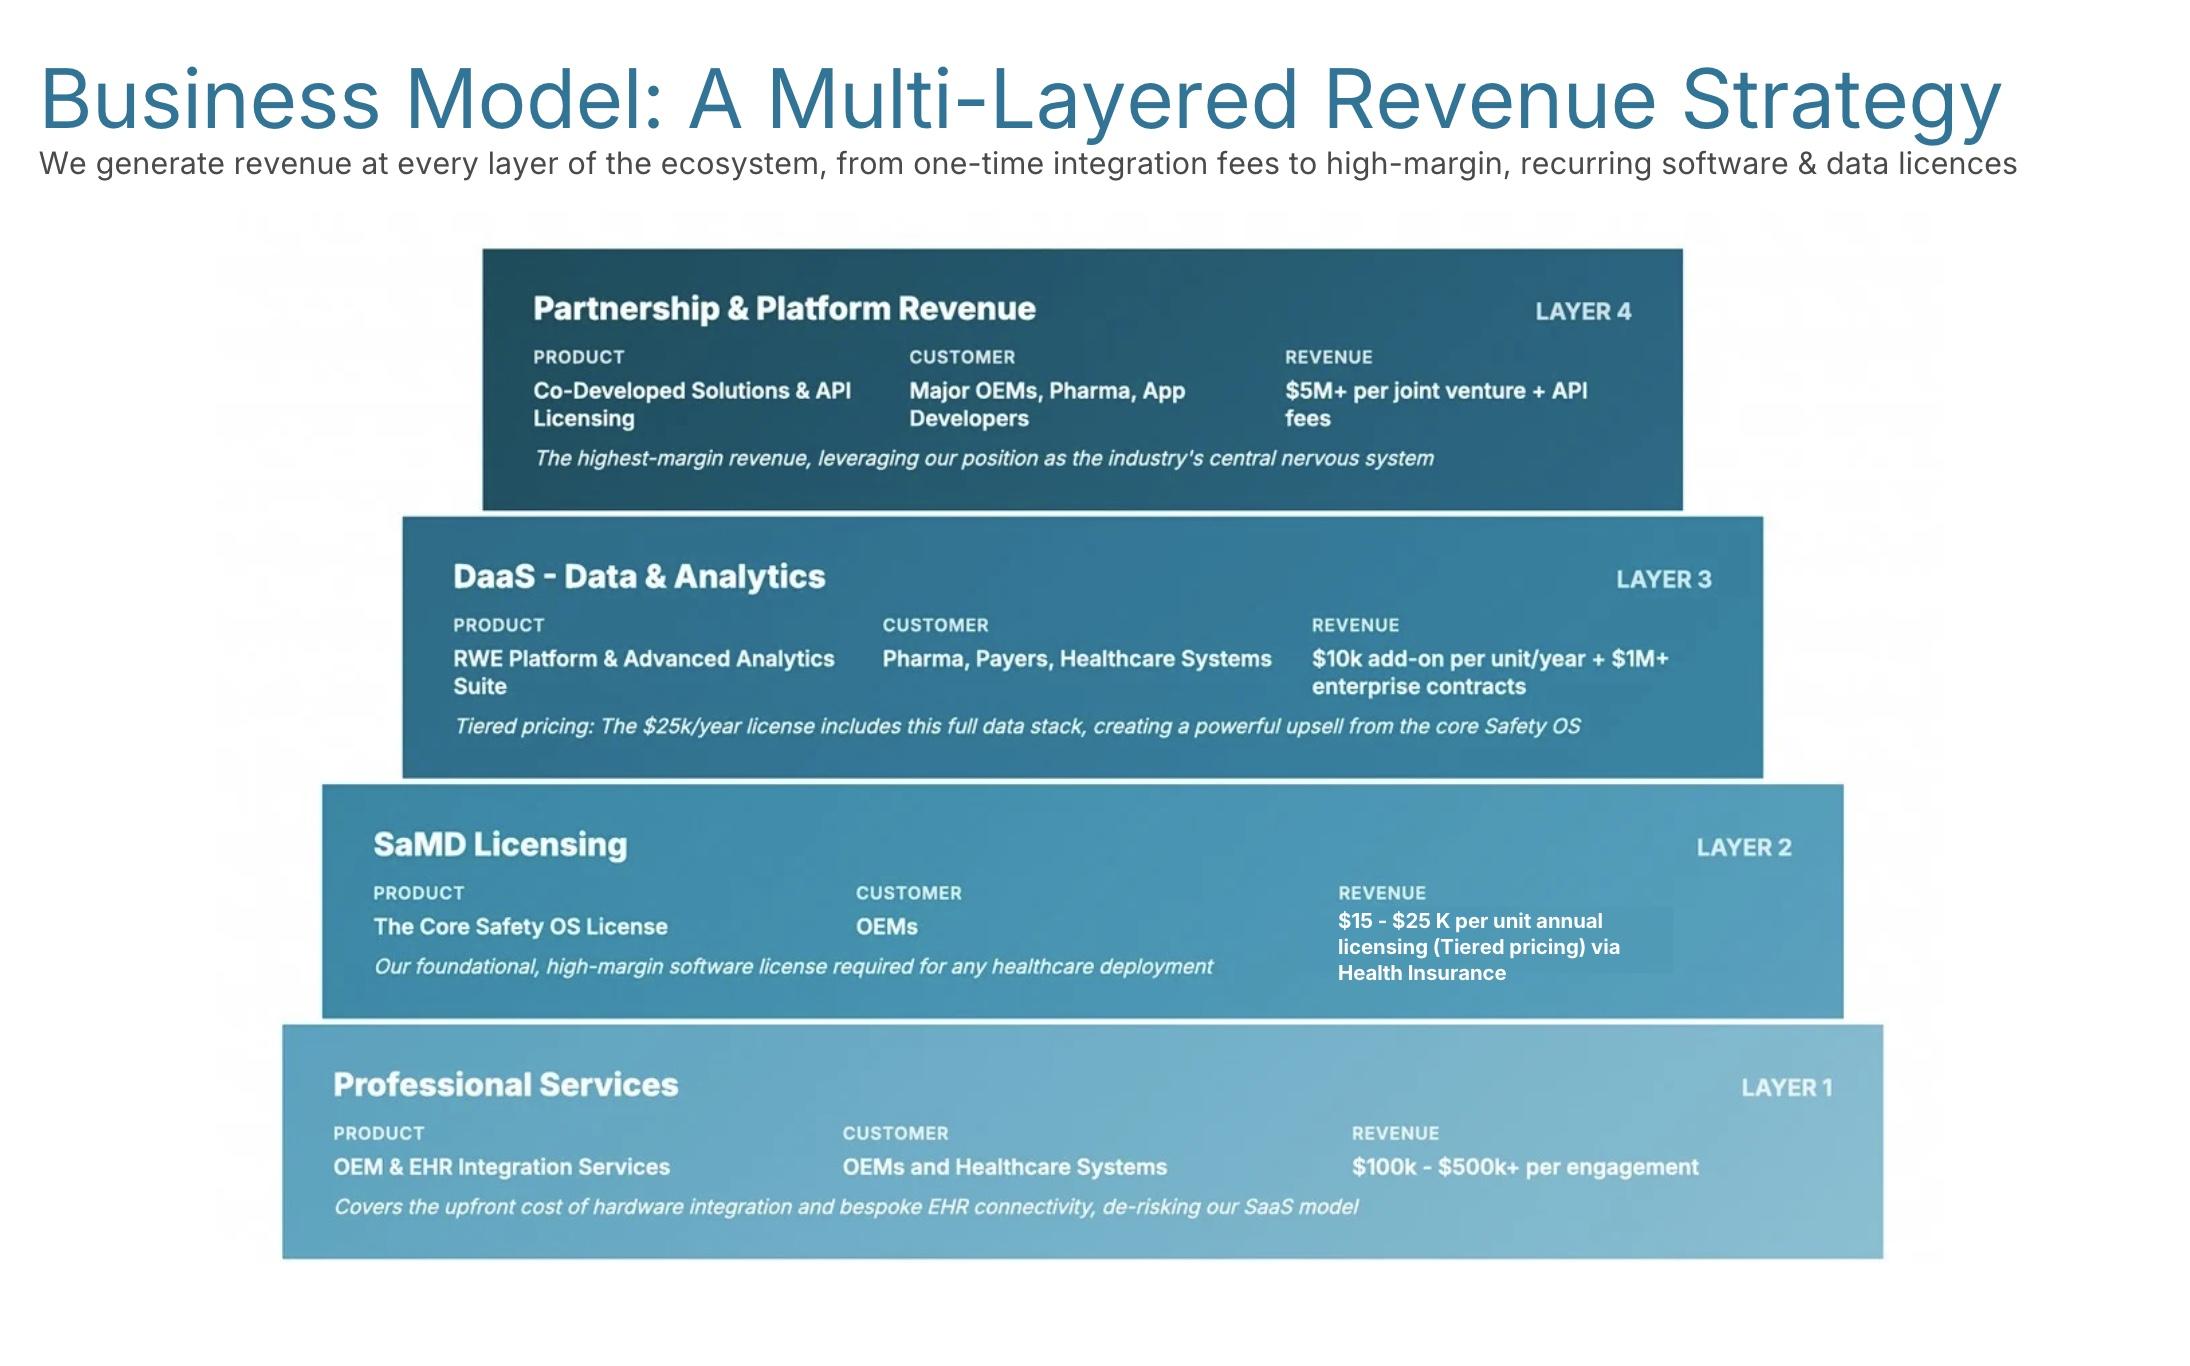
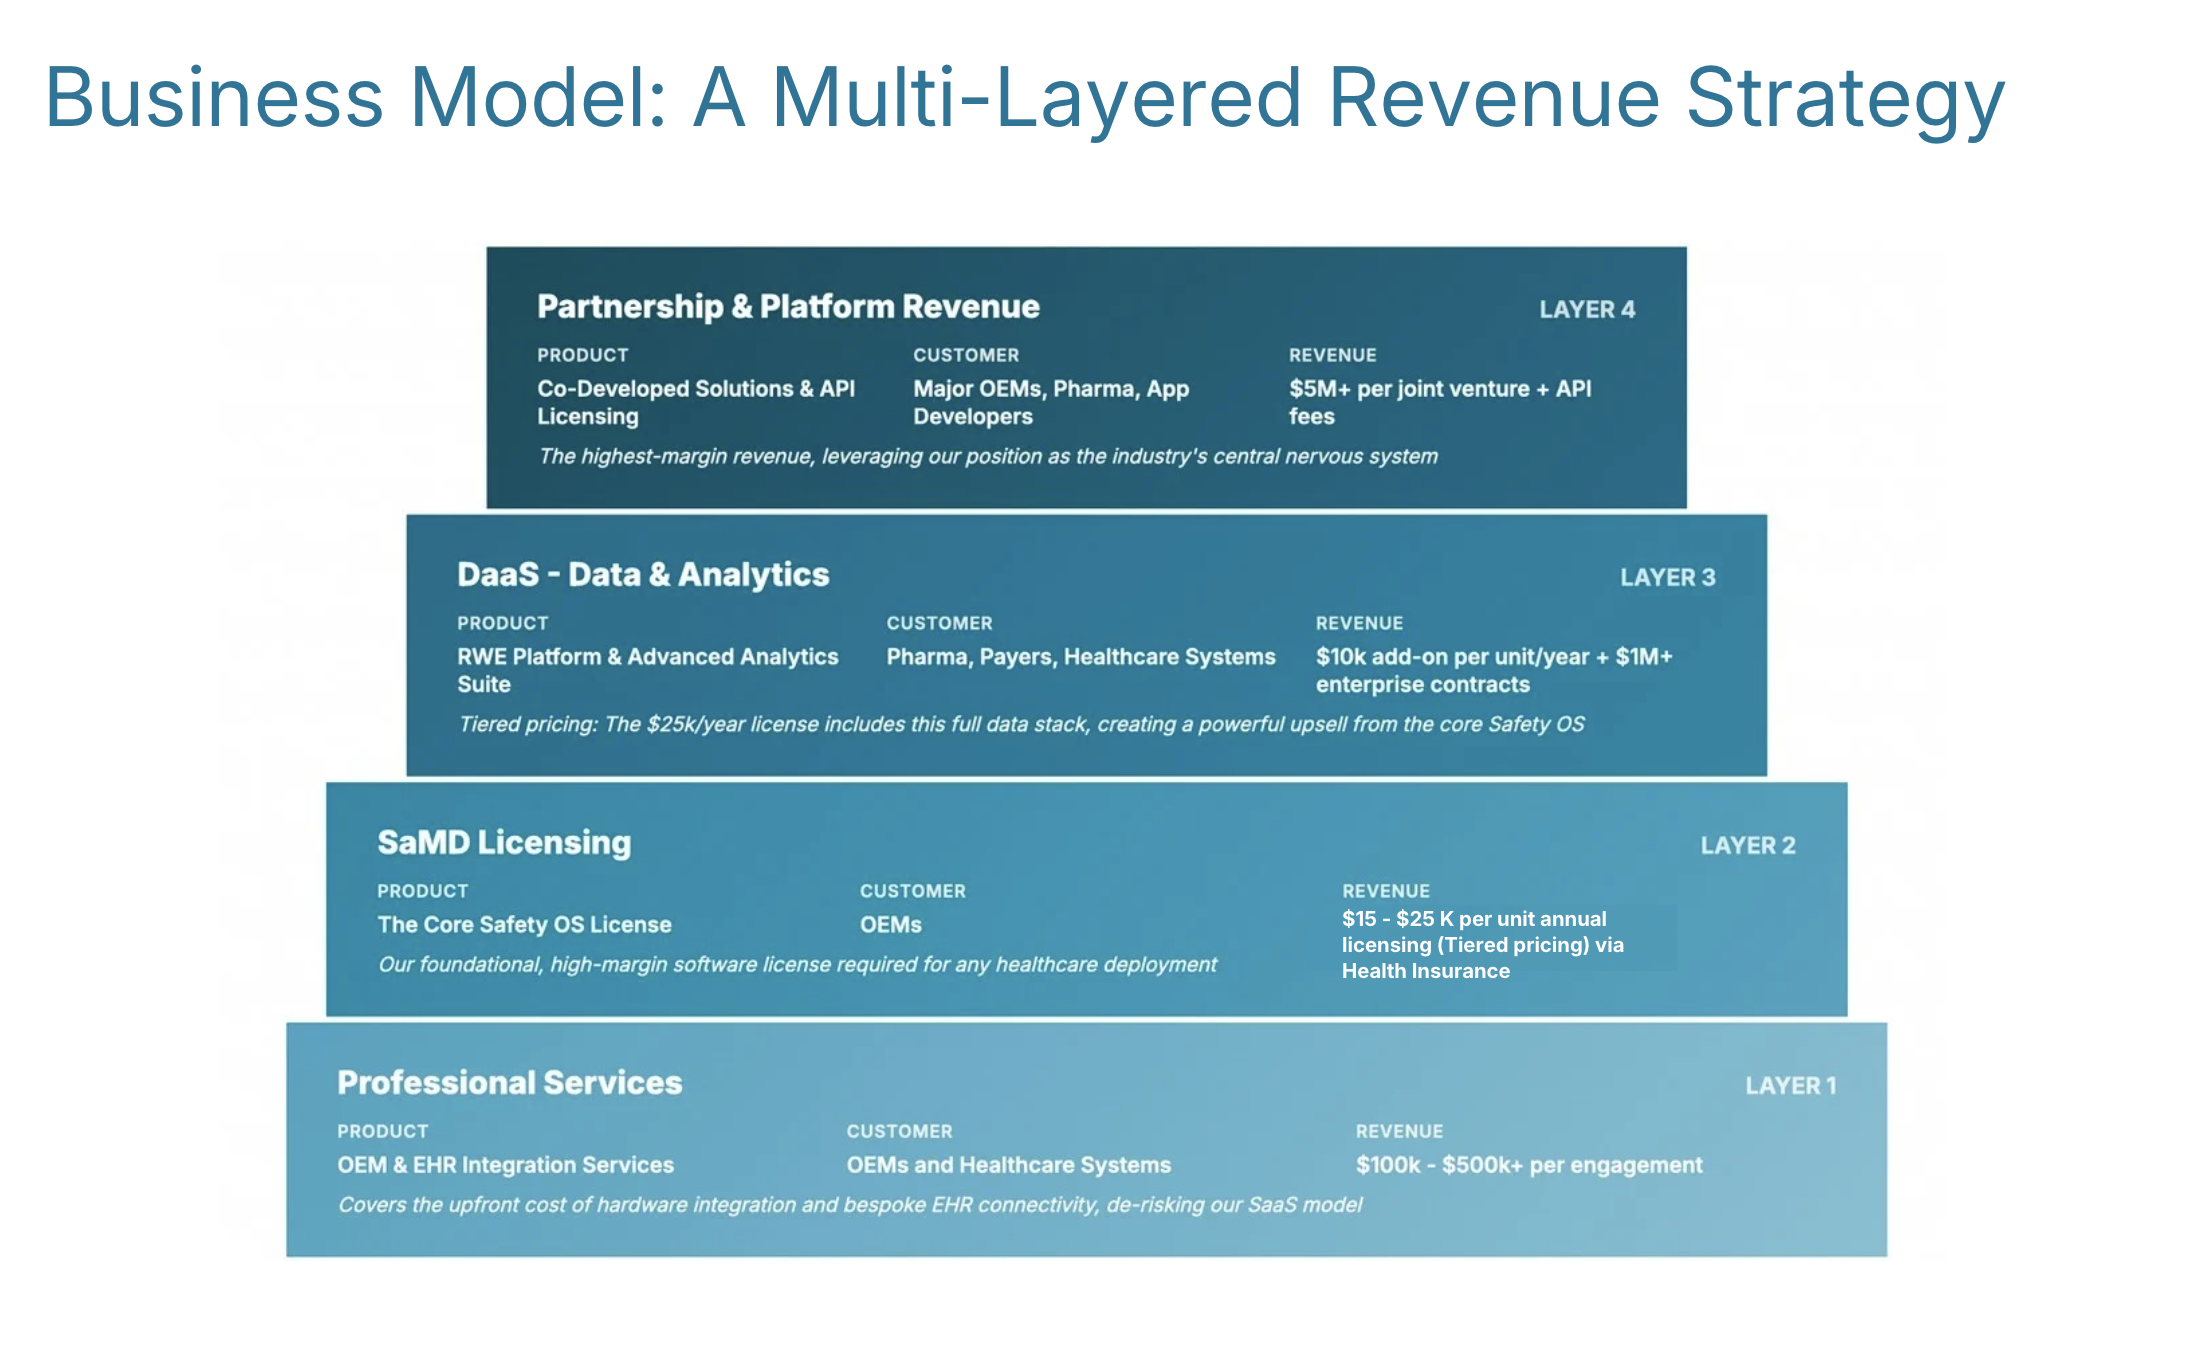
fix: improve visual consistency across investor sections
- Reduce Mission & Technology headline font size (2.5rem → 2rem)
- Reduce Ready to Invest CTA headline font size (2.5rem → 2rem)
- Enlarge and color MS forecast citation text (0.85rem → 1rem, orange)
- Replace 4-layer revenue diagram with cleaner deck version
- All section headlines now consistent at 2rem

diff --git a/index.html b/index.html
@@ -1405,7 +1405,7 @@
                           </li>
                       </ul>
                   </div>
-                  <p style="font-size: 0.85rem; color: #95a5a6; margin-top: 1.5rem; font-style: italic; border-top: 1px solid #ddd; padding-top: 1rem;"><strong>Sources:</strong> Morgan Stanley Research, “Humanoids: Investment Implications of Embodied AI” and “The Humanoid 100: Mapping the Humanoid Robot Value Chain,” 2024–2025; Morgan Stanley Insights, “Humanoid Robot Market Expected to Reach $5 Trillion by 2050”; Citi Global Insights, “The Rise of AI Robots: Physical AI is Coming for You”; various healthcare and elder-care robotics market analyses (InvestorPlace, DataInsights, others).</p>
+                  <p style="font-size: 1rem; color: #E67E22; margin-top: 1.5rem; font-style: italic; border-top: 1px solid #ddd; padding-top: 1rem; font-weight: 500;"><strong>Sources:</strong> Morgan Stanley Research, "Humanoids: Investment Implications of Embodied AI" and "The Humanoid 100: Mapping the Humanoid Robot Value Chain," 2024–2025; Morgan Stanley Insights, "Humanoid Robot Market Expected to Reach $5 Trillion by 2050"; Citi Global Insights, "The Rise of AI Robots: Physical AI is Coming for You"; various healthcare and elder-care robotics market analyses (InvestorPlace, DataInsights, others).</p>
               </div>
               
               <p class="investor-p"><strong>But there's a critical problem: No one has solved the safety and regulatory challenge.</strong></p>
@@ -1802,7 +1802,7 @@
       <!-- SECTION 10: FINAL CTA -->
       <section id="final-cta" class="investor-section">
           <div class="investor-content-card" style="text-align: center; background: linear-gradient(135deg, #FFF4E6 0%, #FFE0B2 100%); border: 3px solid #E67E22;">
-              <h2 class="investor-h2" style="font-size: 2.5rem; color: #2C3E50; margin-bottom: 1.5rem;">
+              <h2 class="investor-h2" style="font-size: 2rem; color: #2C3E50; margin-bottom: 1.5rem;">
                   Ready to Invest? Join the $1T Humanoid Healthcare Revolution
               </h2>
               
@@ -2125,7 +2125,7 @@
       <section id="mission" class="mission-technology-section" style="padding: 4rem 2rem; margin: 3rem 0 0 0;">
         <div style="max-width: 1200px; margin: 0 auto;">
           <div style="background: white; padding: 3rem; border-radius: 20px; border: 2px solid #3498DB; box-shadow: 0 5px 15px rgba(52, 152, 219, 0.1); line-height: 1.8; color: #4a5568;">
-            <h2 style="color: #2C3E50; font-size: 2.5rem; text-align: center; margin-bottom: 1rem; margin-top: 0; font-weight: 700;">Our Mission & Technology</h2>
+            <h2 style="color: #2C3E50; font-size: 2rem; text-align: center; margin-bottom: 1rem; margin-top: 0; font-weight: 700;">Our Mission & Technology</h2>
             <h3 style="color: #E67E22; font-size: 1.8rem; margin-bottom: 1.5rem; font-weight: 600;">The Quadruple Win: Patients, Providers, Payers & Society</h3>
             <p style="font-size: 1.1rem; margin-bottom: 1.5rem;">
               PatientCentricCare.AI delivers a <strong>Quadruple Win</strong> across the healthcare ecosystem. For <strong>patients</strong>, we enable safer, more personalized care through humanoid robots that provide 24/7 monitoring and assistance while maintaining human oversight. For <strong>providers</strong>, our Safety OS reduces liability risk and streamlines EHR integration, allowing clinicians to focus on high-value care decisions. For <strong>payers</strong>, we demonstrate measurable ROI through reduced hospital readmissions and improved chronic disease management. For <strong>society</strong>, we address the global caregiver crisis by scaling compassionate care to underserved populations while creating high-skilled jobs in the medical robotics sector.
